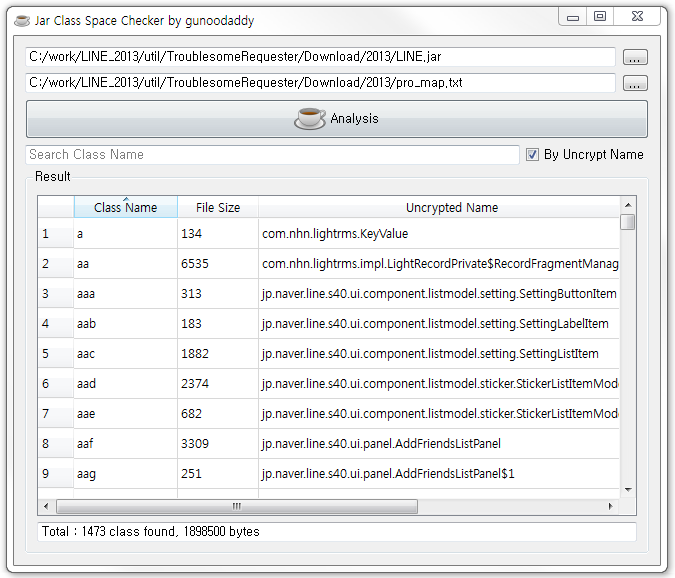
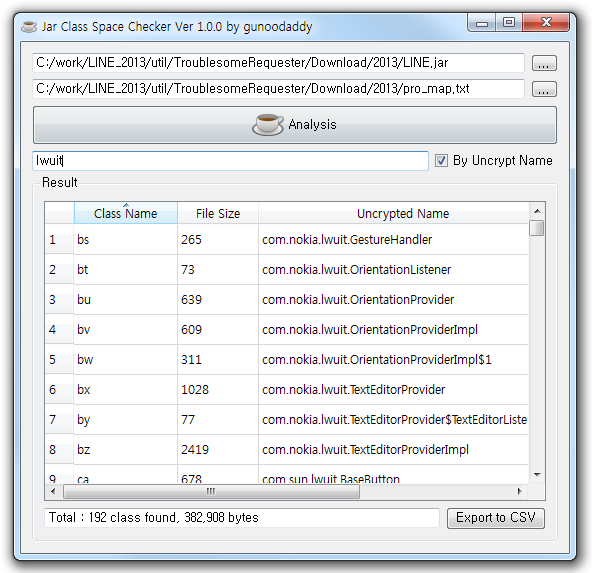
export to csv feature added

diff --git a/ClassSpaceChecker/GeneratedFiles/ui_classspacechecker.h b/ClassSpaceChecker/GeneratedFiles/ui_classspacechecker.h
@@ -1,7 +1,7 @@
 /********************************************************************************
 ** Form generated from reading UI file 'classspacechecker.ui'
 **
-** Created: Thu Jul 4 01:15:47 2013
+** Created: Thu Jul 4 10:08:22 2013
 **      by: Qt User Interface Compiler version 4.8.2
 **
 ** WARNING! All changes made in this file will be lost when recompiling UI file!
@@ -48,7 +48,9 @@ public:
     QGroupBox *groupBox;
     QVBoxLayout *verticalLayout;
     QTableWidget *tableWidgetResult;
+    QHBoxLayout *horizontalLayout_5;
     QLineEdit *lineEdit_Result;
+    QPushButton *pushButtonExportCSV;
 
     void setupUi(QMainWindow *ClassSpaceCheckerClass)
     {
@@ -144,11 +146,23 @@ public:
 
         verticalLayout->addWidget(tableWidgetResult);
 
+        horizontalLayout_5 = new QHBoxLayout();
+        horizontalLayout_5->setSpacing(6);
+        horizontalLayout_5->setObjectName(QString::fromUtf8("horizontalLayout_5"));
         lineEdit_Result = new QLineEdit(groupBox);
         lineEdit_Result->setObjectName(QString::fromUtf8("lineEdit_Result"));
         lineEdit_Result->setReadOnly(true);
 
-        verticalLayout->addWidget(lineEdit_Result);
+        horizontalLayout_5->addWidget(lineEdit_Result);
+
+        pushButtonExportCSV = new QPushButton(groupBox);
+        pushButtonExportCSV->setObjectName(QString::fromUtf8("pushButtonExportCSV"));
+        pushButtonExportCSV->setMinimumSize(QSize(100, 0));
+
+        horizontalLayout_5->addWidget(pushButtonExportCSV);
+
+
+        verticalLayout->addLayout(horizontalLayout_5);
 
 
         verticalLayout_2->addWidget(groupBox);
@@ -166,6 +180,7 @@ public:
         QObject::connect(tableWidgetResult, SIGNAL(itemSelectionChanged()), ClassSpaceCheckerClass, SLOT(onResultItemSelectionChanged()));
         QObject::connect(checkBox_ByUncryptName, SIGNAL(clicked()), ClassSpaceCheckerClass, SLOT(onClickedByUncryptName()));
         QObject::connect(tableWidgetResult, SIGNAL(cellDoubleClicked(int,int)), ClassSpaceCheckerClass, SLOT(onResultCellDoubleClicked(int,int)));
+        QObject::connect(pushButtonExportCSV, SIGNAL(clicked()), ClassSpaceCheckerClass, SLOT(onClickedExportCSV()));
 
         QMetaObject::connectSlotsByName(ClassSpaceCheckerClass);
     } // setupUi
@@ -173,14 +188,15 @@ public:
     void retranslateUi(QMainWindow *ClassSpaceCheckerClass)
     {
         ClassSpaceCheckerClass->setWindowTitle(QApplication::translate("ClassSpaceCheckerClass", "Jar Class Space Checker by gunoodaddy", 0, QApplication::UnicodeUTF8));
-        lineEdit_JarFile->setPlaceholderText(QApplication::translate("ClassSpaceCheckerClass", "Jar File", 0, QApplication::UnicodeUTF8));
+        lineEdit_JarFile->setPlaceholderText(QApplication::translate("ClassSpaceCheckerClass", "Jar File (Drag&Drop supported)", 0, QApplication::UnicodeUTF8));
         toolButton_JarFile->setText(QApplication::translate("ClassSpaceCheckerClass", "...", 0, QApplication::UnicodeUTF8));
-        lineEdit_MapFile->setPlaceholderText(QApplication::translate("ClassSpaceCheckerClass", "Proguard Map File", 0, QApplication::UnicodeUTF8));
+        lineEdit_MapFile->setPlaceholderText(QApplication::translate("ClassSpaceCheckerClass", "Proguard Map File (Drag&Drop supported)", 0, QApplication::UnicodeUTF8));
         toolButton_MapFile->setText(QApplication::translate("ClassSpaceCheckerClass", "...", 0, QApplication::UnicodeUTF8));
         pushButtonStart->setText(QApplication::translate("ClassSpaceCheckerClass", "Analysis", 0, QApplication::UnicodeUTF8));
-        lineEdit_Search->setPlaceholderText(QApplication::translate("ClassSpaceCheckerClass", "Search Class Name (Regular Expression supported)", 0, QApplication::UnicodeUTF8));
+        lineEdit_Search->setPlaceholderText(QApplication::translate("ClassSpaceCheckerClass", "Search Name (Regular Expression supported)", 0, QApplication::UnicodeUTF8));
         checkBox_ByUncryptName->setText(QApplication::translate("ClassSpaceCheckerClass", "By Uncrypt Name", 0, QApplication::UnicodeUTF8));
         groupBox->setTitle(QApplication::translate("ClassSpaceCheckerClass", "Result", 0, QApplication::UnicodeUTF8));
+        pushButtonExportCSV->setText(QApplication::translate("ClassSpaceCheckerClass", "Export to CSV", 0, QApplication::UnicodeUTF8));
     } // retranslateUi
 
 };

diff --git a/ClassSpaceChecker/classspacechecker.cpp b/ClassSpaceChecker/classspacechecker.cpp
@@ -22,6 +22,12 @@ ClassSpaceChecker::ClassSpaceChecker(QWidget *parent, Qt::WFlags flags)
 	ui.lineEdit_Result->setText("Press Analysis button first.");
 
 	updateWindowTitle();
+
+	if(ui.lineEdit_JarFile->text().isEmpty() && ui.lineEdit_MapFile->text().isEmpty())
+	{
+		// To show placeholder text at initial launch time
+		ui.pushButtonStart->setFocus();
+	}
 }
 
 ClassSpaceChecker::~ClassSpaceChecker()
@@ -365,6 +371,52 @@ void ClassSpaceChecker::searchClass(bool useUncryptName, const QString & searchT
 	prevTotalResultStr_ = resultStr;
 }
 
+void ClassSpaceChecker::writeToCSVFile(const QString & outputPath)
+{
+	QFile outputFile(outputPath);
+	if (!outputFile.open(QIODevice::WriteOnly | QIODevice::Truncate | QIODevice::Text))
+	{
+		QMessageBox::warning(this, "", tr("Failed to create csv file."));
+		ui.lineEdit_MapFile->setFocus();
+		return;
+	}
+
+	for(int i = 0; i < ui.tableWidgetResult->columnCount(); i++) 
+	{
+		if(i != 0)
+		{
+			outputFile.write(",");
+		}
+
+		QTableWidgetItem *header = ui.tableWidgetResult->horizontalHeaderItem(i);
+		outputFile.write("\"");
+		outputFile.write(header->text().toStdString().c_str());
+		outputFile.write("\"");
+	}
+	outputFile.write("\n");
+
+	for(int i = 0; i < ui.tableWidgetResult->rowCount(); i++)
+	{
+		for(int j = 0; j < ui.tableWidgetResult->columnCount(); j++)
+		{
+			if(j != 0)
+			{
+				outputFile.write(",");
+			}
+
+			QTableWidgetItem *item = ui.tableWidgetResult->item(i, j);
+
+			outputFile.write("\"");
+			outputFile.write(item->text().toStdString().c_str());
+			outputFile.write("\"");
+		}
+		outputFile.write("\n");
+	}
+
+	outputFile.flush();
+	outputFile.close();
+}
+
 void ClassSpaceChecker::onChangedSearchText(QString text)
 {
 	setSetting("searchText", text);
@@ -394,6 +446,13 @@ void ClassSpaceChecker::onClickedMapFile()
 		ui.lineEdit_MapFile->setText(fileName);
 		ui.lineEdit_MapFile->setFocus();
 	}
+}
+
+void ClassSpaceChecker::onClickedExportCSV()
+{
+	QString fileName = QFileDialog::getSaveFileName(this, tr("Export to CSV File"), tr(""), tr("CSV Files (*.csv)"));
+ 
+	writeToCSVFile(fileName);
 }
 
 void ClassSpaceChecker::onClickedByUncryptName()

diff --git a/ClassSpaceChecker/classspacechecker.h b/ClassSpaceChecker/classspacechecker.h
@@ -31,6 +31,7 @@ public:
 	~ClassSpaceChecker();
 
 public slots:
+	void onClickedExportCSV();
 	void onClickedJarFile();
 	void onClickedMapFile();
 	void onCheckButtonClicked();
@@ -48,6 +49,7 @@ private:
 	void searchClass(bool useUncryptName, const QString & searchText);
 	void removeAll();
 	void openClassFile(const QString jarPath, const ClassFileContext *ctx);
+	void writeToCSVFile(const QString & outputPath);
 
 	void updateWindowTitle( void )
 	{
